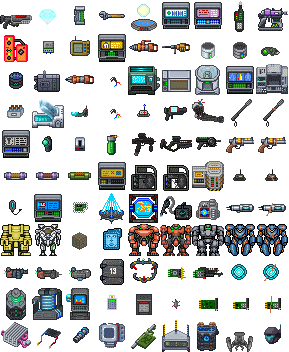
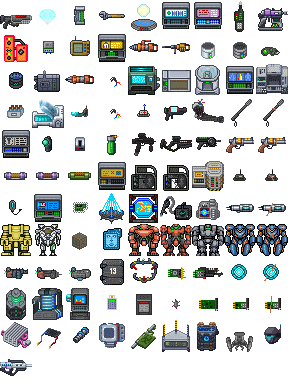
Features complete
Just need to start balancing and playtesting

diff --git a/nano/css/shared.css b/nano/css/shared.css
@@ -967,6 +967,8 @@ th.bot {
 .icon-spiderlegs { background-position: -224px -320px; }
 .icon-moebiushelm { background-position: -256px -320px; }
 
+.icon-whitenail { background-position: 0px -352px; }
+
 .sciMenuButton {
     width: 300px;
     float: left;
